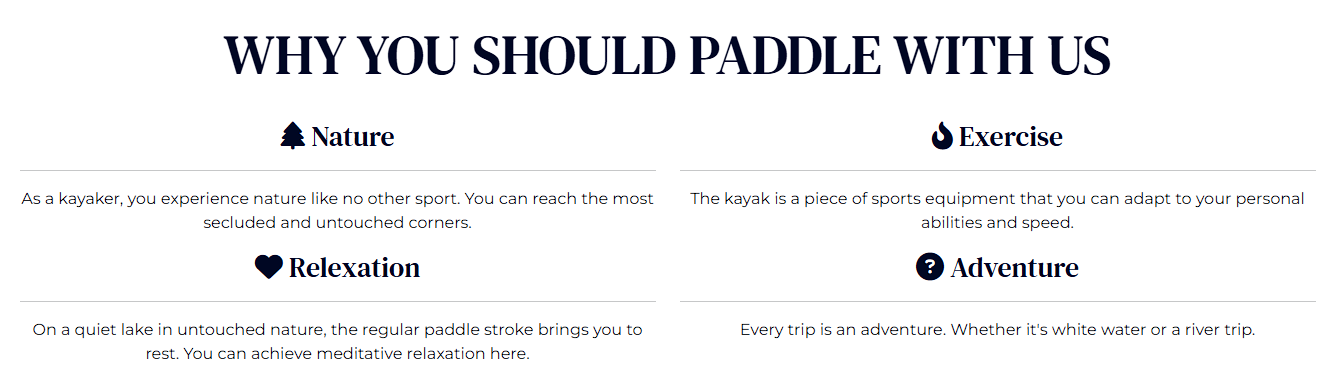
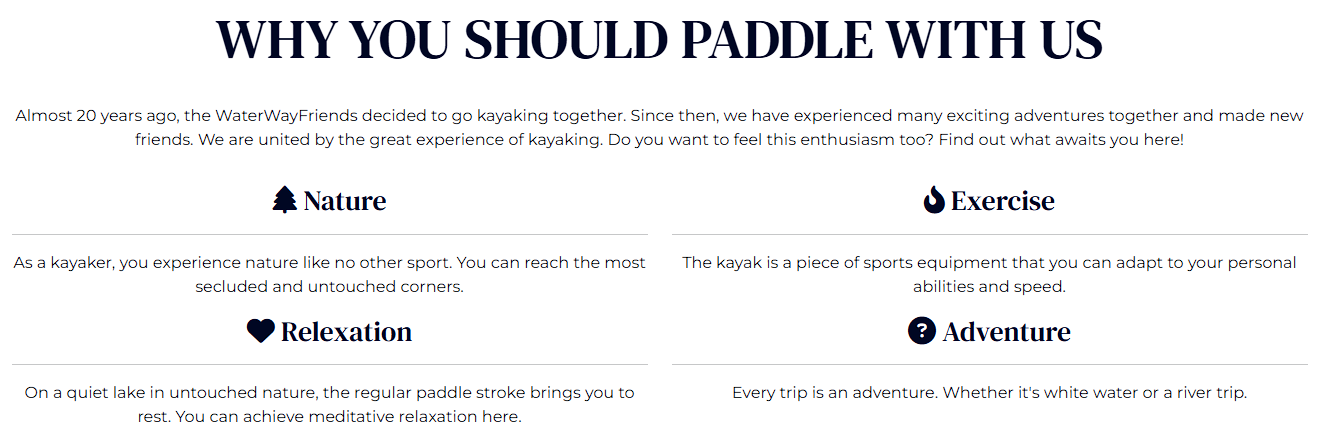
chore: update to README.md and docs

diff --git a/README.md b/README.md
@@ -170,6 +170,8 @@ Mobile view:
 #### *About Us Section:*
 ##### *Why Paddle With Us*
 
+
+* After a brief introduction to the WaterWayFriends community, the added value of kayaking for the user is highlighted.
 * This section highlights the benefits of community kayaking.
 * It explains to the user why kayaking is good for body and soul.
 * The benefits should help the user to recognize the added value of kayaking in the community.
@@ -177,7 +179,11 @@ Mobile view:
 * In mobile view, these categories are displayed one below the other.
 * From the tablet view and upwards, two of these categories are displayed side by side.
 
+Desktop view:
+
 ![About Us Desktop](docs/screenshots/about-us-desktop.png)
+
+Mobile view:
 
 ![About Us Moblie](docs/screenshots/about-us-mobile.png)
 
